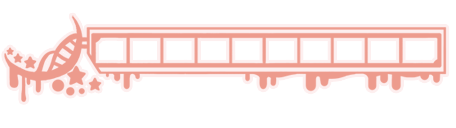
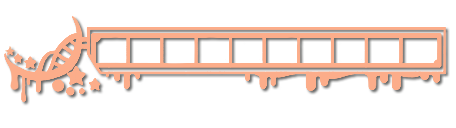
ゲームオーバーエフェクト追加、ゲージ差し替え

Changed region(s): [[0.0, 0.125, 1.0, 0.8125]]

diff --git a/effect.cpp b/effect.cpp
@@ -1044,6 +1044,7 @@ void effectEnterBlurArea(Effect* a_pObj)
 			a_pObj->m_speedAcc.x = 0.01f;
 		}
 
+		//a_pObj->m_custom.rgba = 0xFCAD8AFF;
 		a_pObj->m_timer = 0;
 		a_pObj->m_step = STEP::BEGIN;
 		//break;
@@ -1072,6 +1073,144 @@ void effectEnterBlurArea(Effect* a_pObj)
 		}
 		a_pObj->m_custom.scaleY = a_pObj->m_custom.scaleX;
 		a_pObj->m_alpha += a_pObj->m_speedAlpha;
+		if (a_pObj->m_alpha>160)
+		{
+			a_pObj->m_alpha = 160;
+		}
+		break;
+	case STEP::END:
+		a_pObj->m_step = STEP::FINISH;
+		//break;
+	case STEP::FINISH:
+		a_pObj->clear();
+		break;
+	default:
+		break;
+	}
+}
+
+void effectSpiral(Effect* a_pObj)
+{
+	switch (a_pObj->m_step)
+	{
+	case STEP::INIT:
+		a_pObj->m_pSprData = &e_pSprEffSpirals[rand() % 5];
+		a_pObj->m_pfMove = effectSpiral;
+
+		a_pObj->m_custom.scaleY = a_pObj->m_custom.scaleX = 0.5f;
+
+		a_pObj->m_timer = 0;
+		a_pObj->m_initPos = a_pObj->m_pos;
+		a_pObj->m_alpha = 60;
+		a_pObj->m_speedAlpha = 4;
+		a_pObj->m_step = STEP::BEGIN;
+		//break;
+	case STEP::BEGIN:
+		if (a_pObj->m_timer > 0){
+			++a_pObj->m_timer;
+			if (a_pObj->m_timer == 60) {
+				//a_pObj->m_alpha = 255;
+				a_pObj->m_speedAlpha = -a_pObj->m_speedAlpha;
+			}
+			if (a_pObj->m_timer > 60) {
+				a_pObj->m_custom.scaleX -= 0.01f;
+			}
+		}
+		else
+		{
+			a_pObj->m_custom.scaleX += 0.02f;
+		}
+		a_pObj->m_custom.angle += 2;
+		if (a_pObj->m_custom.scaleX > 1.0f) {
+			a_pObj->m_custom.scaleX = 1.0f;
+		}
+		a_pObj->m_custom.scaleY = a_pObj->m_custom.scaleX;
+		a_pObj->m_alpha += a_pObj->m_speedAlpha;
+		if (a_pObj->m_alpha > 255) {
+			a_pObj->m_alpha = 255;
+			++a_pObj->m_timer;
+		}
+		if (a_pObj->m_alpha < 0) {
+			a_pObj->m_step = STEP::END;
+		}
+		break;
+	case STEP::END:
+		a_pObj->m_step = STEP::FINISH;
+		//break;
+	case STEP::FINISH:
+		a_pObj->clear();
+		break;
+	default:
+		break;
+	}
+}
+
+void effectClearStar(Effect* a_pObj)
+{
+	switch (a_pObj->m_step)
+	{
+	case STEP::INIT:
+		a_pObj->m_pSprData = &e_sprEffBookAura;
+		a_pObj->m_pfMove = effectClearStar;
+
+		a_pObj->m_custom.angle = 180;
+		a_pObj->m_custom.scaleX = a_pObj->m_custom.scaleY = 1.03f;
+
+		a_pObj->m_timer = 0;
+		a_pObj->m_initPos = a_pObj->m_pos;
+		a_pObj->m_alpha = 0;
+		a_pObj->m_speedAlpha = 2;
+		a_pObj->m_step = STEP::BEGIN;
+		//break;
+	case STEP::BEGIN:
+		a_pObj->m_alpha += a_pObj->m_speedAlpha;
+		if (a_pObj->m_alpha > 255) {
+			a_pObj->m_alpha = 255;
+			a_pObj->m_speedAlpha = -a_pObj->m_speedAlpha;
+		}
+		if (a_pObj->m_alpha < 0) {
+			a_pObj->m_step = STEP::END;
+			a_pObj->clear();
+		}
+		break;
+	case STEP::END:
+		a_pObj->m_step = STEP::FINISH;
+		//break;
+	case STEP::FINISH:
+		a_pObj->clear();
+		break;
+	default:
+		break;
+	}
+}
+
+void effectFirework(Effect* a_pObj)
+{
+	switch (a_pObj->m_step)
+	{
+	case STEP::INIT:
+		a_pObj->m_pSprData = &e_sprEffBookAura;
+		a_pObj->m_pfMove = effectFirework;
+
+		a_pObj->m_custom.angle = 180;
+		a_pObj->m_custom.scaleX = a_pObj->m_custom.scaleY = 1.03f;
+
+		a_pObj->m_timer = 0;
+		a_pObj->m_initPos = a_pObj->m_pos;
+		a_pObj->m_alpha = 0;
+		a_pObj->m_speedAlpha = 2;
+		a_pObj->m_step = STEP::BEGIN;
+		//break;
+	case STEP::BEGIN:
+		a_pObj->m_alpha += a_pObj->m_speedAlpha;
+		if (a_pObj->m_alpha > 255) {
+			a_pObj->m_alpha = 255;
+			a_pObj->m_speedAlpha = -a_pObj->m_speedAlpha;
+		}
+		if (a_pObj->m_alpha < 0) {
+			a_pObj->m_step = STEP::END;
+			a_pObj->clear();
+		}
 		break;
 	case STEP::END:
 		a_pObj->m_step = STEP::FINISH;

diff --git a/sprite_data.cpp b/sprite_data.cpp
@@ -67,6 +67,9 @@ LOAD_TEXTURE e_loadTexture[] = {
 	{ TEX_EFF_BOOK_AURA,			"./DATA/Images/Effect/book_aura.png", true },
 	{ TEX_EFF_GOAL,					"./DATA/Images/Effect/goal_effect.png" },
 	{ TEX_EFF_PLAYER_BORDER,		"./DATA/Images/Effect/player_border.png" },
+	{ TEX_EFF_SPIRALS,				"./DATA/Images/Effect/spirals.png" },
+	{ TEX_EFF_CLEAR_STAR,			"./DATA/Images/Effect/clear_star.png" },
+	{ TEX_EFF_FIREWORK,				"./DATA/Images/Effect/firework.png" },
 
 	{ TEX_GAME_RULE_LEFT,			"./DATA/Images/Book/game_rule_left.png" },
 	{ TEX_GAME_RULE_RIGHT,			"./DATA/Images/Book/game_rule_right.png" },
@@ -540,5 +543,37 @@ SPRITE_LEFTTOP e_pSprEffGoal[] = {
 };
 
 SPRITE_BOTTOM e_sprEffPlayerBorder = SPRITE_BOTTOM(TEX_EFF_PLAYER_BORDER, 0, 0, 0, 0);
+
+SPRITE_CENTER e_pSprEffSpirals[] = {
+	SPRITE_CENTER(TEX_EFF_SPIRALS, 0, 80 * 0, 80, 80),
+	SPRITE_CENTER(TEX_EFF_SPIRALS, 0, 80 * 1, 80, 80),
+	SPRITE_CENTER(TEX_EFF_SPIRALS, 0, 80 * 2, 80, 80),
+	SPRITE_CENTER(TEX_EFF_SPIRALS, 0, 80 * 3, 80, 80),
+	SPRITE_CENTER(-1, 0, 0, 0, 0),
+};
+
+SPRITE_CENTER e_pAnimeEffClearStar[] = {
+	SPRITE_CENTER(TEX_EFF_CLEAR_STAR, 200 * 0, 0, 200, 189, 6),
+	SPRITE_CENTER(TEX_EFF_CLEAR_STAR, 200 * 1, 0, 200, 189, 6),
+	SPRITE_CENTER(TEX_EFF_CLEAR_STAR, 200 * 2, 0, 200, 189, 6),
+	SPRITE_CENTER(TEX_EFF_CLEAR_STAR, 200 * 3, 0, 200, 189, 6),
+	SPRITE_CENTER(TEX_EFF_CLEAR_STAR, 200 * 4, 0, 200, 189, 6),
+	SPRITE_CENTER(-1, 0, 0, 0, 0),
+};
+
+SPRITE_CENTER e_pAnimeEffFirework[] = {
+	SPRITE_CENTER(TEX_EFF_CLEAR_STAR, 486 * 0, 0, 486, 645, 4),
+	SPRITE_CENTER(TEX_EFF_CLEAR_STAR, 486 * 1, 0, 486, 645, 4),
+	SPRITE_CENTER(TEX_EFF_CLEAR_STAR, 486 * 2, 0, 486, 645, 4),
+	SPRITE_CENTER(TEX_EFF_CLEAR_STAR, 486 * 3, 0, 486, 645, 4),
+	SPRITE_CENTER(TEX_EFF_CLEAR_STAR, 486 * 4, 0, 486, 645, 4),
+	SPRITE_CENTER(TEX_EFF_CLEAR_STAR, 486 * 5, 0, 486, 645, 4),
+	SPRITE_CENTER(TEX_EFF_CLEAR_STAR, 486 * 6, 0, 486, 645, 4),
+	SPRITE_CENTER(TEX_EFF_CLEAR_STAR, 486 * 7, 0, 486, 645, 4),
+	SPRITE_CENTER(TEX_EFF_CLEAR_STAR, 486 * 8, 0, 486, 645, 4),
+	SPRITE_CENTER(TEX_EFF_CLEAR_STAR, 486 * 9, 0, 486, 645, 4),
+	SPRITE_CENTER(TEX_EFF_CLEAR_STAR, 486 * 10, 0, 486, 645, 4),
+	SPRITE_CENTER(-1, 0, 0, 0, 0),
+};
 
 //******************************************************************************

diff --git a/scene_main.cpp b/scene_main.cpp
@@ -334,16 +334,22 @@ void SceneMain::update()
 		break;
 	case STEP::END:
 		m_timer++;
-		if (m_timer > 30)
-		{
+		if (m_timer > 30){
 			//pGameUIManager->showXButton();
 			pGameUIManager->m_ppGameUI[GAME_OVER_BEHIND]->m_isVisible = true;
 			pGameUIManager->m_ppGameUI[GAME_OVER_FRONT]->m_isVisible = true;
 
 			retrySelection();
-
+			if (m_timer % 30 == 1) {
+				if (rand()%2==0){
+					Effect::searchSet(pEffectManager->m_ppEffect, EFF_OBJ_MAX_NUM, pGameUIManager->m_ppGameUI[GAME_OVER_BEHIND]->m_pos + Vector3((rand() % 5 * 10.0f + 300.0f)*(rand() % 64 < 32 ? -1 : 1), (rand() % 8 - 4.0f)*20.0f, 0.0f), 1, effectSpiral);
+				}
+				else {
+					Effect::searchSet(pEffectManager->m_ppEffect, EFF_OBJ_MAX_NUM, pGameUIManager->m_ppGameUI[GAME_OVER_BEHIND]->m_pos + Vector3((rand() % 34 - 17.0f)*20.0f, (rand() % 5 * 10.0f + 120.0f)*(rand() % 64 < 32 ? -1 : 1), 0.0f), 1, effectSpiral);
+				}
+			}
 		}
-
+		pEffectManager->update();
 		break;
 	default:
 		break;
@@ -378,8 +384,8 @@ void SceneMain::draw()
 	if (m_step >= STEP::BEGIN || m_step == STEP::INIT + 1) {
 		//pEffectManager->draw();
 	}
-	pEffectManager->draw();
 	pGameUIManager->draw();
+	pEffectManager->draw();
 
 
 #ifdef  DEBUG
@@ -585,7 +591,7 @@ void SceneMain::gameMain()
 				if (pGameUIManager->m_ppGameUI[STAGE_CLEAR_BEHIND]->m_custom.scaleX < 1.0f)
 				{
 					pGameUIManager->m_ppGameUI[STAGE_CLEAR_BEHIND]->m_custom.scaleX = pGameUIManager->m_ppGameUI[STAGE_CLEAR_BEHIND]->m_custom.scaleY = 1.0;
-					if (m_timer > 80) {
+					if (m_timer > 120) {
 						pGameUIManager->m_ppGameUI[STAGE_CLEAR_FRONT]->m_isVisible = true;
 						pGameUIManager->m_ppGameUI[STAGE_CLEAR_FRONT]->m_custom.scaleX = pGameUIManager->m_ppGameUI[STAGE_CLEAR_FRONT]->m_custom.scaleY -= 0.04;
 						if (pGameUIManager->m_ppGameUI[STAGE_CLEAR_FRONT]->m_custom.scaleX < 1.0f) {

diff --git a/sprite_data.h b/sprite_data.h
@@ -56,6 +56,9 @@ enum TEX_NO {
 	TEX_EFF_BOOK_AURA,
 	TEX_EFF_GOAL,
 	TEX_EFF_PLAYER_BORDER,
+	TEX_EFF_SPIRALS,
+	TEX_EFF_CLEAR_STAR,
+	TEX_EFF_FIREWORK,
 
 	TEX_GAME_RULE_LEFT,
 	TEX_GAME_RULE_RIGHT,
@@ -196,5 +199,9 @@ extern SPRITE_CENTER e_sprEffBookAura;
 extern SPRITE_LEFTTOP e_pSprEffGoal[];
 
 extern SPRITE_BOTTOM e_sprEffPlayerBorder;
+
+extern SPRITE_CENTER e_pSprEffSpirals[];
+extern SPRITE_CENTER e_pAnimeEffClearStar[];
+extern SPRITE_CENTER e_pAnimeEffFirework[];
 
 #endif // !_SPRDATA_H_

diff --git a/effect.h b/effect.h
@@ -94,4 +94,8 @@ void effectBookAura(Effect* a_pObj);
 void effectGoal(Effect* a_pObj);
 void effectEnterBlurArea(Effect* a_pObj);
 
+void effectSpiral(Effect* a_pObj);
+void effectClearStar(Effect* a_pObj);
+void effectFirework(Effect* a_pObj);
+
 #endif // !_EFFECT_H_
